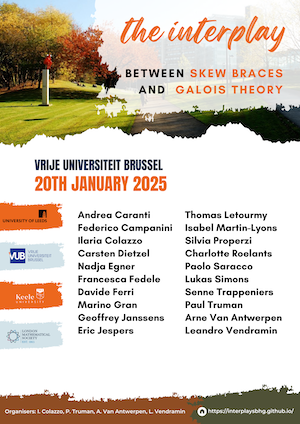
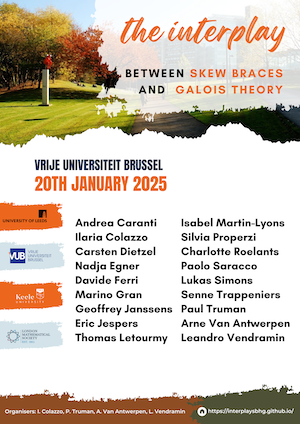
participants

Changed region(s): [[0.6, 0.4906, 0.96, 0.8278], [0.24, 0.4906, 0.57, 0.8278]]

diff --git a/index.html b/index.html
@@ -89,11 +89,9 @@
               <p class="text"><b>Participants</b></p>
               <ul>
                 <li>Andrea Caranti (Università of Trento, Italy)</li>
-                <li>Federico Campanini (Université catholique de Louvain, Belgium)</li>
                 <li>Ilaria Colazzo (University of Leeds, UK)</li>
                 <li>Carsten Dietzel (University of Caen Normandy, France)</li>
                 <li>Nadja Egner (Université catholique de Louvain, Belgium)</li>
-                <li>Francesca Fedele (University of Leeds, UK)</li>
                 <li>Davide Ferri (Università di Torino, Italy and Vrije Universiteit Brussel, Belgium)</li>
                 <li>Marino Gran (Université catholique de Louvain, Belgium)</li>
                 <li>Geoffrey Janssens (Vrije Universiteit Brussel, Belgium)</li>
